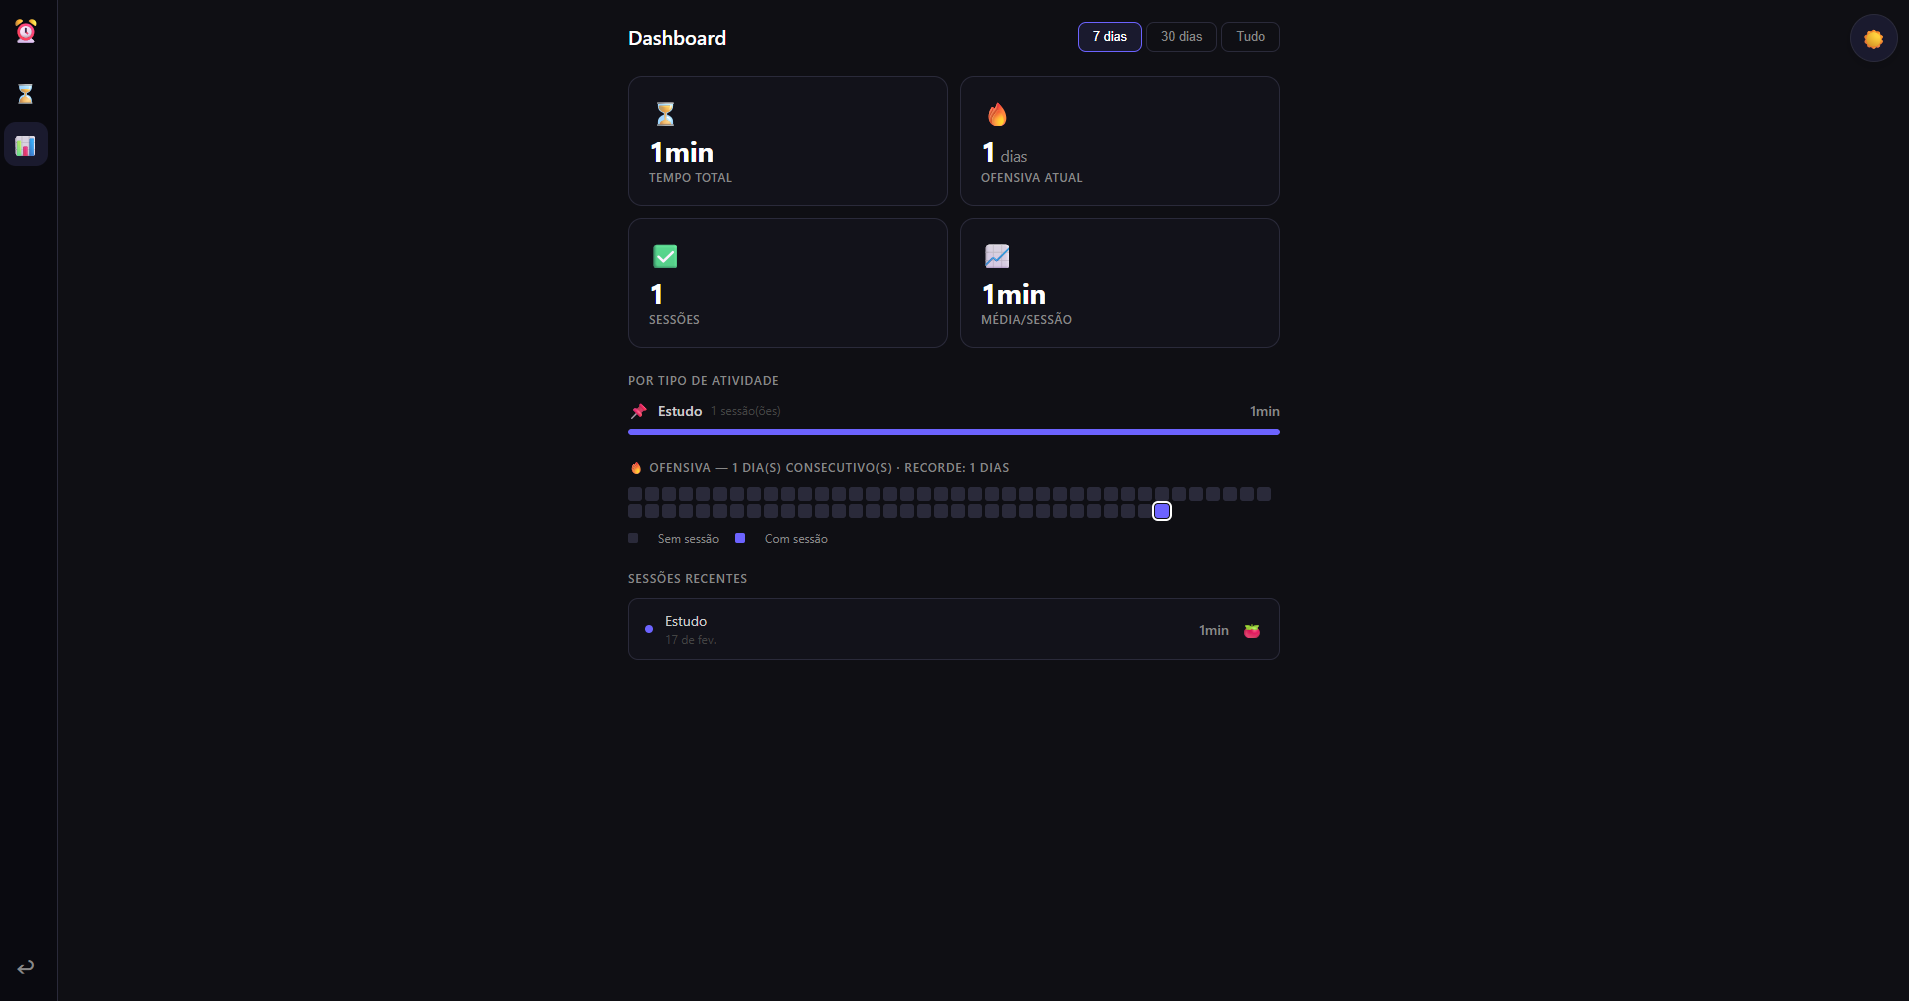
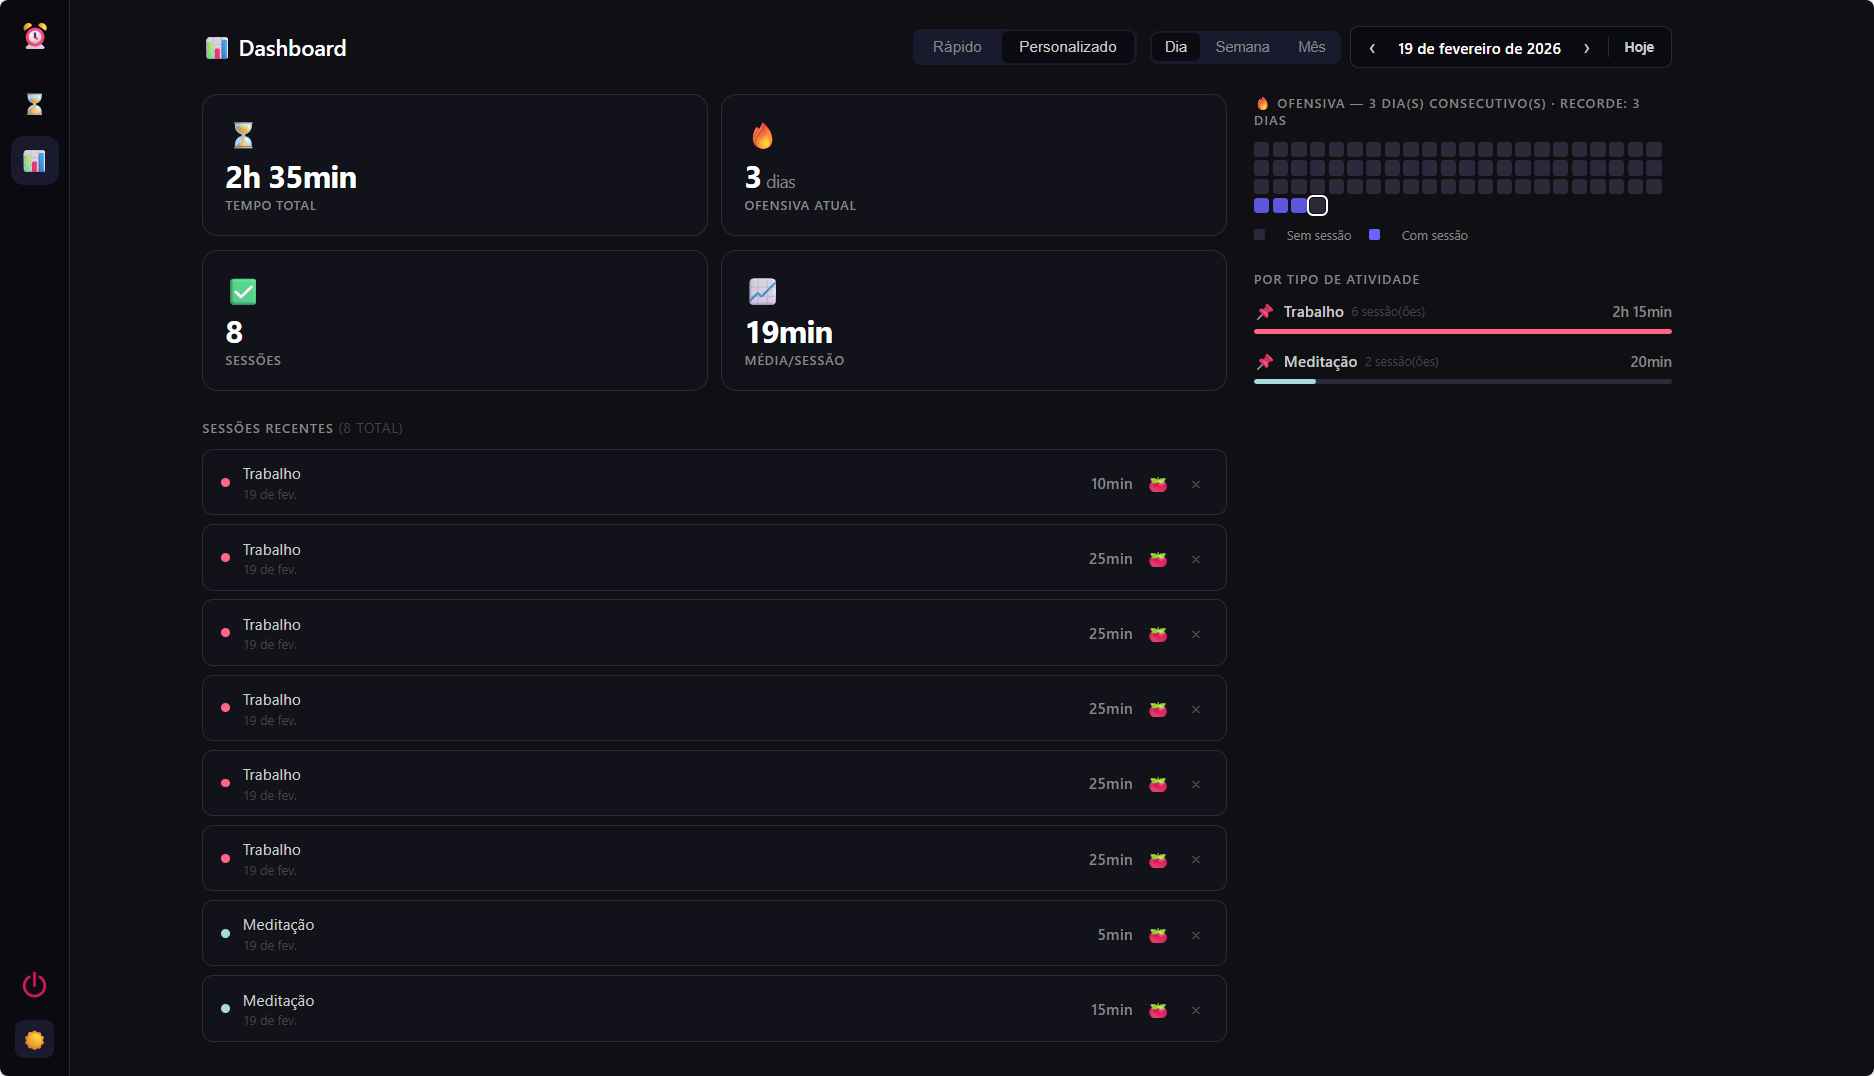
📃 doc(README): updated readme features section and demo images

diff --git a/README.md b/README.md
@@ -23,6 +23,15 @@ Personal productivity timer focused on consistency and clarity.
 - Animated progress bar
 - Notification sound at Pomodoro completion
 - Picture-in-Picture — floating mini window with time and progress while using other applications
+- Detailed statistics displayed in the timer view, including:
+	- Current focus data:
+		- Hours focused today
+		- Hours focused in the last 7 days
+		- Hours focused in the last 30 days
+	- Averages and trends:
+		- Daily average (last 7 days)
+		- Weekly average (last 4 weeks / 28 days)
+		- Monthly average (last 12 months)
 
 **Activity Types**
 - Default types: Study, Work, Exercise, Reading, Meditation, Personal Project
@@ -99,7 +108,7 @@ serve dist/focusflow/browser
 - Daily streak tracking with personal records
 - Interactive calendar heatmap (70-day history)
 - Session statistics with averages and totals
-- Time period filtering (7d, 30d, all time)
+- Time period filtering (today, 7d, 30d, all time)
 
 ### 🖼 **Picture-in-Picture**
 - Ultra-compact floating timer (110x120px)
